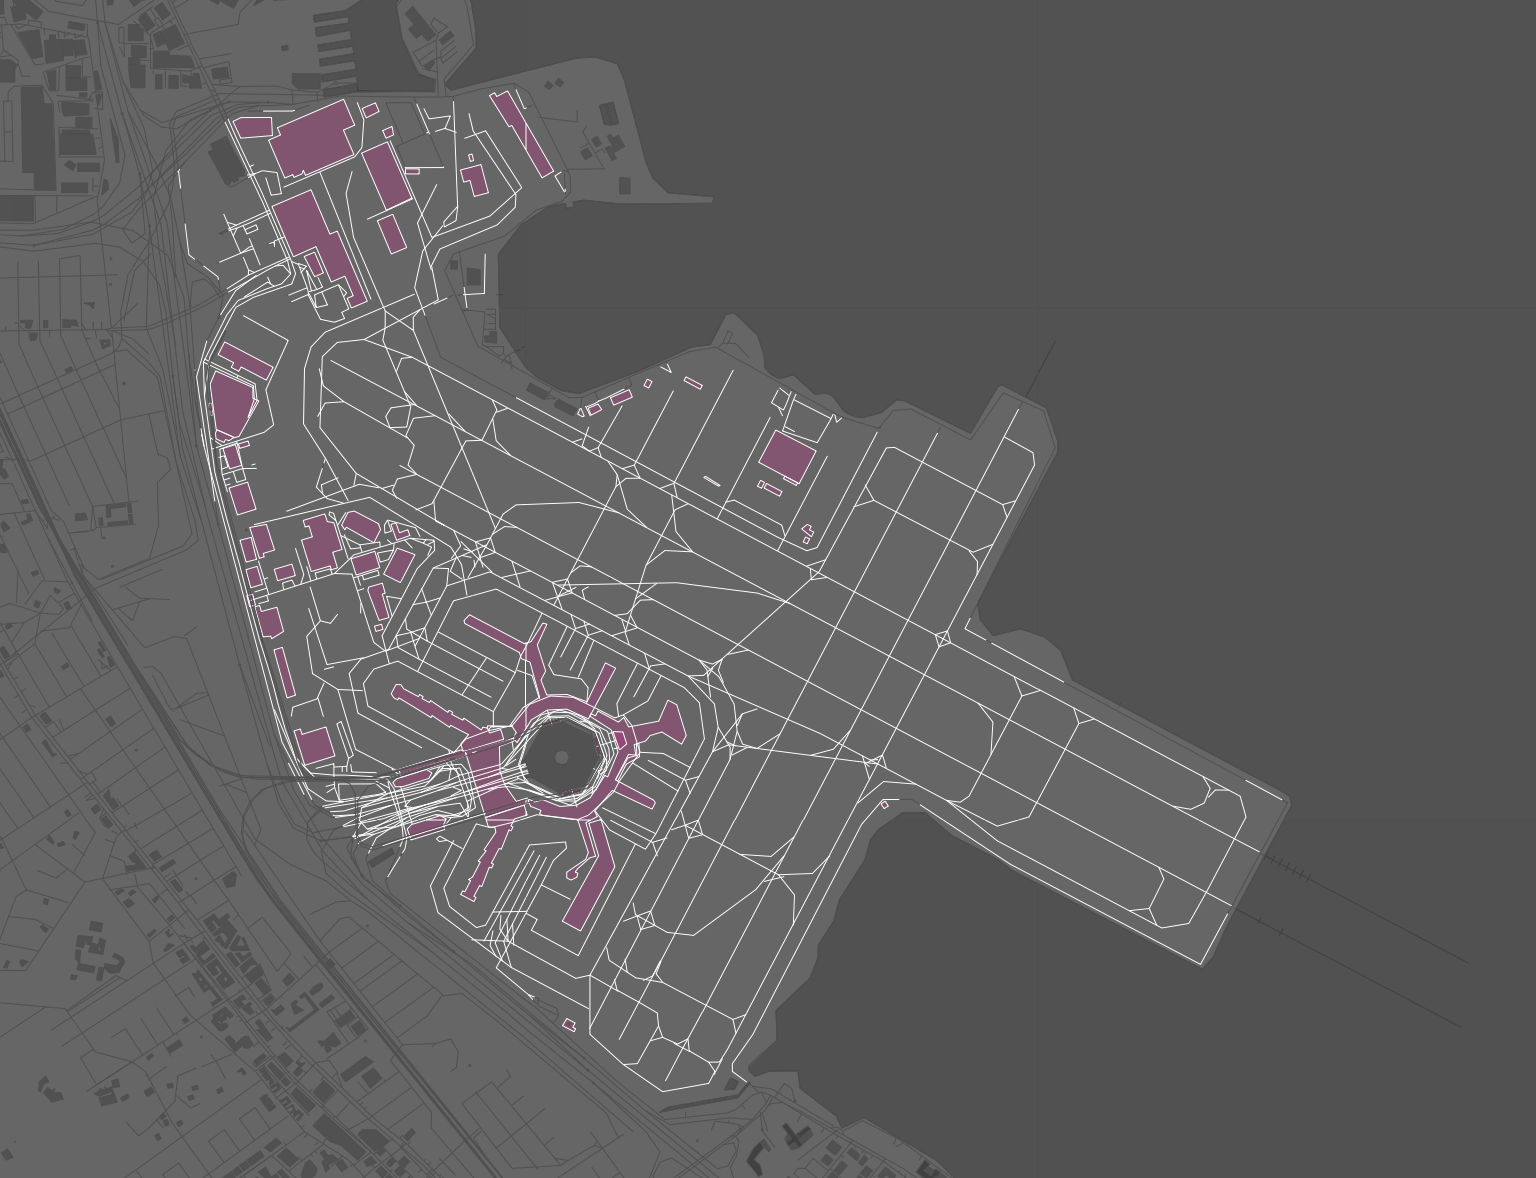
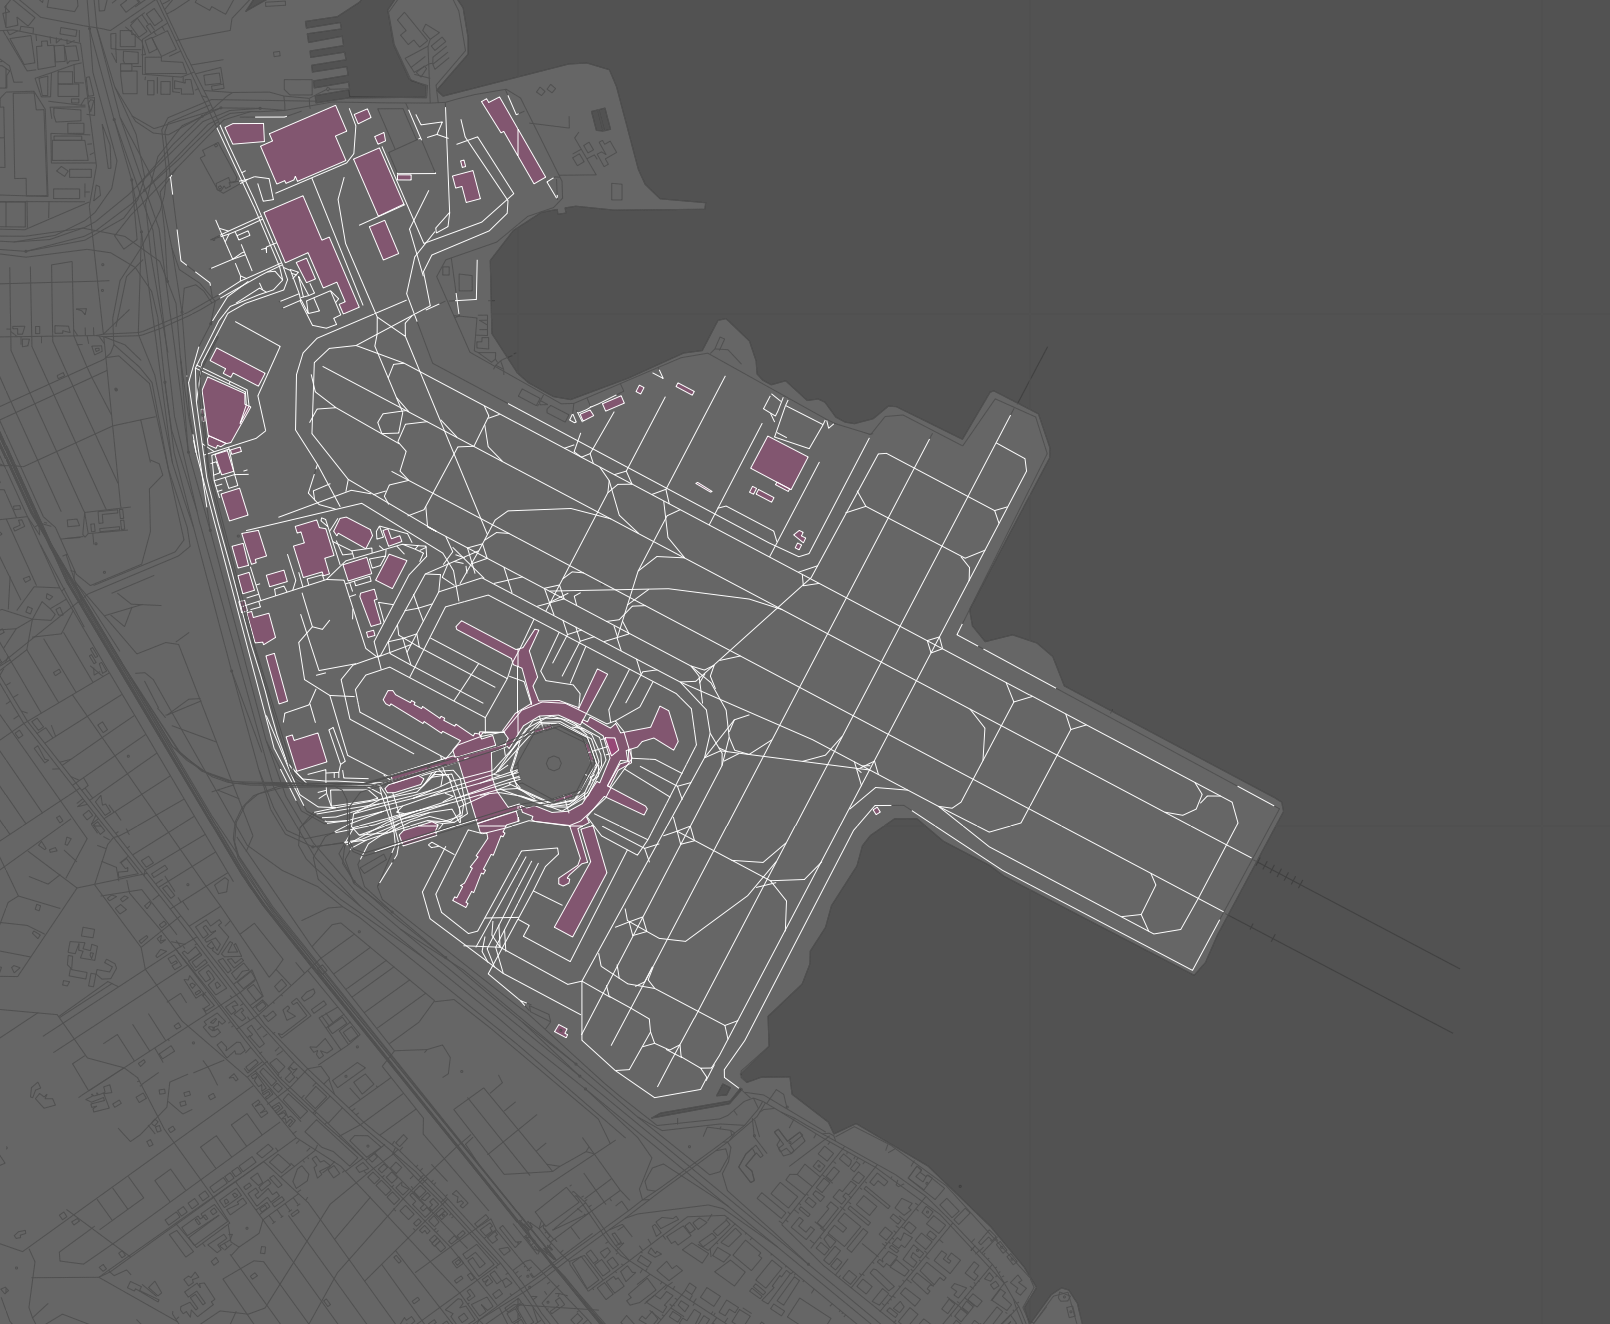
fix a bug where styles were not being applied properly; docs

diff --git a/tile/svg.go b/tile/svg.go
@@ -336,6 +336,10 @@ func RasterzenToSVGWithOptions(in io.Reader, out io.Writer, svg_opts *RasterzenS
 					default:
 						use_style = false
 					}
+
+					if !use_style {
+						break
+					}
 				}
 
 				// log.Println("STYLES", query, use_style)

diff --git a/README.md b/README.md
@@ -362,12 +362,20 @@ For example:
     "stroke_width": 1.0,
     "stroke_opacity": 1.0,
     "fill": "#000000",
-    "fill_opacity": 0.2,
+    "fill_opacity": 0.0,
     "styles": {
+	"geometry.type=[Polygon,MultiPolygon] properties.kind=[ocean,water,lake]":{
+	    "fill_opacity": 0.2
+	},
 	"properties.landuse_kind=[apron,aerodrome]": {
+	    "stroke":"#ffffff",	    
+	    "fill": "#f11499"
+	},
+	"geometry.type=[Polygon,MultiPolygon] properties.landuse_kind=[apron,aerodrome]": {
+	    "stroke":"#ffffff",	    
 	    "fill": "#f11499",
-	    "stroke":"#ffffff"
-	}	
+	    "fill_opacity": 0.2
+	}		
     }
 }
 ```
@@ -376,10 +384,10 @@ Which would end up looking like this:
 
 ![](docs/images/rasterzen-styles.png)
 
-It is not possible (yet) to perform boolean queries on full query statements, like this:
+By default all queries in a query statement must evaluate to true in order for a style to be applied. It is not possible (yet) to perform boolean `OR` queries on full query statements, like this:
 
 ```
-"(properties.landuse_kind=aerodrome properties.kind=building)" : {
+"[properties.landuse_kind=aerodrome,properties.kind=building]" : {
 	// styles go here
 }	
 ```
